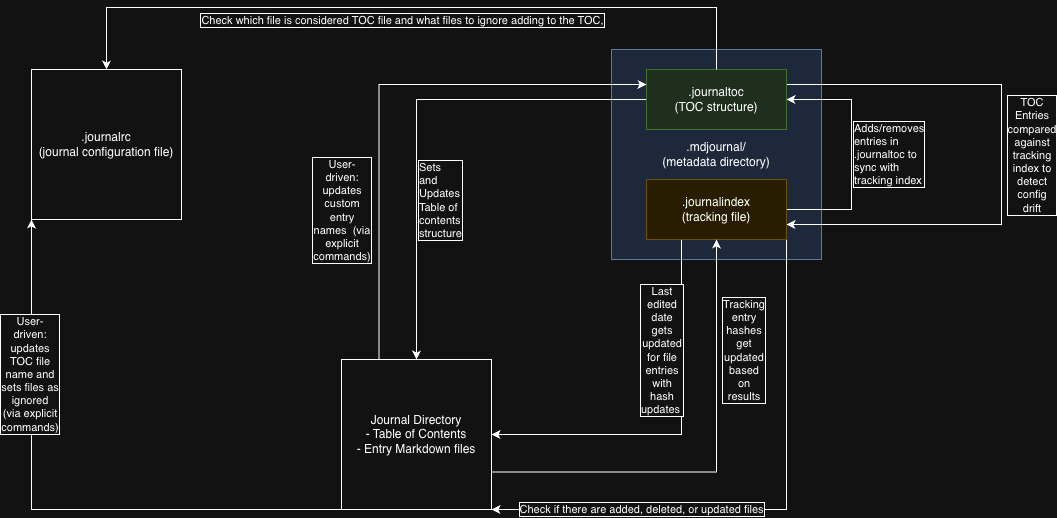
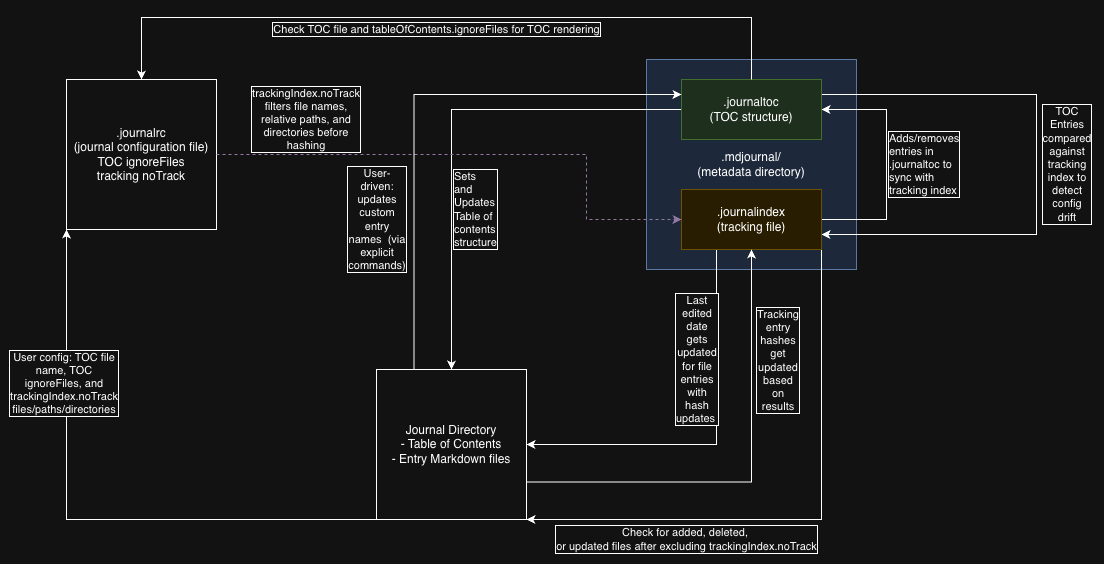
docs

diff --git a/docs/ARCHITECTURE.md b/docs/ARCHITECTURE.md
@@ -25,7 +25,7 @@ Three metadata artifacts (`.journalrc`, `.mdjournal/.journalindex`, and `.mdjour
 
 | Component | Role |
 |---|---|
-| `.journalrc` | Config file. Defines the TOC file name, file extensions, and the `ignoreFiles` list.|
+| `.journalrc` | Config file. Defines the journal name, TOC file name, markdown extensions, `tableOfContents.ignoreFiles`, and `trackingIndex.noTrack`. |
 | `.mdjournal/` | Hidden metadata directory. Contains `.journalindex` and `.journaltoc`. |
 | `.mdjournal/.journalindex` | Tracking file. Stores SHA256 hashes and last-checked timestamps for every tracked `.md` file. |
 | `.mdjournal/.journaltoc` | TOC structure file. Stores the topic hierarchy and root entries as JSON. |
@@ -33,14 +33,14 @@ Three metadata artifacts (`.journalrc`, `.mdjournal/.journalindex`, and `.mdjour
 
 **Sync loop (automatic on `update journal`):**
 
-1. **Disk → `.mdjournal/.journalindex`** — `FileTracking.DetectChangesWithoutUpdate()` walks the directory and compares file hashes against the stored index to identify added, modified, and deleted files.
+1. **Disk → `.mdjournal/.journalindex`** — `FileTracking.DetectChangesWithoutUpdate()` walks the directory, filters out `.mdjournal/`, applies `.journalrc` `trackingIndex.noTrack`, and compares file hashes against the stored index to identify added, modified, and deleted files.
 2. **`.mdjournal/.journalindex` → Journal Directory** — Last-edited metadata is stamped into modified entry files; `.mdjournal/.journalindex` is updated with the new hashes.
-3. **`.mdjournal/.journalindex` → `.mdjournal/.journaltoc`** — `JournalConfiguration.DetectConfigChanges()` diffs the tracking index keys against the combined entry set from `.mdjournal/.journaltoc` (root entries + topic hierarchy) and `.journalrc` (`ignoreFiles`) to find files that need to be added or removed. Structural adds and removes are written to `.mdjournal/.journaltoc` via `IJournalTocStructureRepository`. Config detection runs twice in the live path: once before the early-return check, and again after tracking is committed so that same-run file additions and deletions are captured.
+3. **`.mdjournal/.journalindex` → `.mdjournal/.journaltoc`** — `JournalConfiguration.DetectConfigChanges()` diffs the tracking index keys against the combined entry set from `.mdjournal/.journaltoc` (root entries + topic hierarchy) and `.journalrc` (`tableOfContents.ignoreFiles`) to find files that need to be added or removed. Files in `trackingIndex.noTrack` have already been excluded from the tracking index, so they do not participate in config drift detection. Structural adds and removes are written to `.mdjournal/.journaltoc` via `IJournalTocStructureRepository`. Config detection runs twice in the live path: once before the early-return check, and again after tracking is committed so that same-run file additions and deletions are captured.
 4. **`.journalrc` + `.mdjournal/.journaltoc` → Journal Directory** — `TableOfContentsService` reads user settings from `.journalrc` and the topic structure from `.mdjournal/.journaltoc`, then regenerates the Table of Contents markdown file.
 
 **User-driven (explicit commands only):**
 
-- **Journal Directory → `.journalrc`** — Ignore-file flags (`update entry --ignore`) are written to `.journalrc`'s `ignoreFiles` list via explicit commands.
+- **Journal Directory → `.journalrc`** — Ignore-file flags (`update entry --ignore`) are written to `.journalrc`'s `tableOfContents.ignoreFiles` list via explicit commands. `trackingIndex.noTrack` is user configuration that excludes files, relative paths, or directories from tracking entirely.
 - **Journal Directory → `.mdjournal/.journaltoc`** — Entry heading/location changes (`update entry --headings`), display name changes (`update entry --name`/`--title`), and file renames are written to `.mdjournal/.journaltoc` via `IJournalTocStructureRepository`.
 
 ## 🔧 Dependency Injection
@@ -90,6 +90,7 @@ The application follows a service-oriented architecture with clear separation of
 **`IJournalConfiguration`** — Manages all `.journalrc` CRUD operations.
 - Supports complex nested topic/subtopic hierarchy.
 - Provides entry find, rename, and file-reference update for rename workflows.
+- Preserves `trackingIndex.noTrack` when journal updates regenerate user-facing configuration.
 
 **`IJournalFileUpdateService`** — Orchestrates entry update operations.
 - Handles renaming, relocation, title changes, and ignore-status toggling.
@@ -173,19 +174,50 @@ Implemented in `TableOfContentsGenerator.cs` for smart TOC rendering.
 }
 ```
 
+### Tracking No-Track Pattern
+
+**Purpose:** Allow markdown files or directories to exist inside the journal directory without becoming part of the tracking index.
+
+This is different from `tableOfContents.ignoreFiles`: ignored files are still tracked and can remain in configuration, while no-track files are omitted before hashing and are not written to `.mdjournal/.journalindex`.
+
+**Implementation:**
+- `.journalrc` contains `trackingIndex.noTrack`.
+- `FileTracking.GetCurrentMarkdownFiles()` reads the journal configuration before change detection or index refresh.
+- Matches are filtered before hashes are computed, before added/modified/deleted results are calculated, and before a new index is saved.
+- Matching accepts:
+  - file-name-only entries, e.g. `scratch.md` matches `scratch.md` and `notes/scratch.md`
+  - exact relative paths, e.g. `private/secret.md`
+  - directory entries, e.g. `archive` or `archive/` excludes all markdown files under that directory
+- Matching is case-insensitive and normalizes `\` to `/`; glob patterns are not supported.
+
+**Use Cases:**
+- Private folders that should never be indexed
+- Imported archives kept near a journal but outside active tracking
+- Scratch files that should not create update noise
+- Generated markdown files managed by another tool
+
+**Example:**
+```json
+{
+  "trackingIndex": {
+    "noTrack": ["scratch.md", "private/secret.md", "archive"]
+  }
+}
+```
+
 ### File Change Detection
 
 **Architecture:**
 ```
 IFileTracking
     └── IHashService (SHA256)
-            └── .md-journal index file
+            └── .mdjournal/.journalindex file
 ```
 
 **Process:**
-1. **Index Creation**: Hash all markdown files on journal initialization
-2. **Storage**: Save index to `.md-journal` JSON file
-3. **Detection**: Compare current file hashes with stored hashes
+1. **Index Creation**: Hash all tracked markdown files on journal initialization
+2. **Storage**: Save index to `.mdjournal/.journalindex` JSON file
+3. **Detection**: Load `.journalrc`, exclude `trackingIndex.noTrack` matches, then compare current file hashes with stored hashes
 4. **Results**: Return added/modified/deleted file lists
 
 **Index Structure:**

diff --git a/README.md b/README.md
@@ -160,12 +160,35 @@ dotnet tool uninstall -g mdjournal
 
 Each journal has normal markdown files plus three managed metadata artifacts:
 
-- `.journalrc` for user-facing journal settings (name, TOC filename, ignore list)
+- `.journalrc` for user-facing journal settings (name, TOC filename, TOC ignore list, tracking no-track list)
 - `.mdjournal/.journalindex` for file-change tracking (hash-based)
 - `.mdjournal/.journaltoc` for TOC structure (topics + root entries)
 
 `mdjournal update ... journal` keeps them in sync by detecting file changes,
 updating tracking/config state, and regenerating the markdown TOC.
+
+### `.journalrc` ignore vs no-track
+
+`.journalrc` has two separate exclusion concepts:
+
+- `tableOfContents.ignoreFiles`: entries stay tracked, but are omitted from the generated TOC.
+- `trackingIndex.noTrack`: files are excluded from the tracking index entirely, so update/sync does not report, hash, or add them to `.mdjournal/.journalindex`.
+
+`trackingIndex.noTrack` accepts file names, relative file paths, or directories. Matching is case-insensitive and normalizes slashes; glob patterns are not currently supported.
+
+```json
+{
+  "journalName": "MyJournal",
+  "tableOfContents": {
+    "file": "1a-TableOfContents.md",
+    "extensions": [".md"],
+    "ignoreFiles": ["draft.md"]
+  },
+  "trackingIndex": {
+    "noTrack": ["scratch.md", "private/secret.md", "archive"]
+  }
+}
+```
 
 ## Documentation
 

diff --git a/docs/COMMANDS.md b/docs/COMMANDS.md
@@ -203,6 +203,8 @@ Options:
 Notes:
 
 - If tracking already exists, command exits `0` with warning and does not overwrite
+- The generated tracking index excludes markdown files matched by `.journalrc` `trackingIndex.noTrack`.
+- `trackingIndex.noTrack` can contain a specific file name (`scratch.md`), a relative file path (`private/secret.md`), or a directory (`archive` or `archive/`).
 
 Examples:
 
@@ -241,6 +243,20 @@ Behavior:
 - `--sync` is mutually exclusive with `--date`, `--tracking`, `--config`, and `--toc`
 - `--rename-toc` runs independently and can be combined with other operations
 - `--dry-run` always exits `0`
+- Tracking and sync operations respect `.journalrc` `trackingIndex.noTrack`: matching files are skipped before hash comparison and are not saved in `.mdjournal/.journalindex`.
+- `tableOfContents.ignoreFiles` only hides entries from the generated TOC; `trackingIndex.noTrack` excludes files from tracking entirely.
+
+No-track examples in `.journalrc`:
+
+```json
+{
+  "trackingIndex": {
+    "noTrack": ["scratch.md", "private/secret.md", "archive"]
+  }
+}
+```
+
+Matching is case-insensitive, normalizes slashes, and does not currently support glob patterns.
 
 Examples:
 

diff --git a/docs/DEVELOPMENT.md b/docs/DEVELOPMENT.md
@@ -194,6 +194,8 @@ Internal metadata is rooted in `.mdjournal/`:
 - `.mdjournal/.journalindex`
 - `.mdjournal/.journaltoc`
 
+Root-level `.journalrc` remains the user-facing configuration file. It includes both TOC exclusions (`tableOfContents.ignoreFiles`) and tracking exclusions (`trackingIndex.noTrack`). When touching file tracking, make sure no-track filtering happens before hashing or saving `.journalindex`; when touching TOC generation, use `ignoreFiles` instead.
+
 Services should resolve these via configured names in `JournalSettings`, not hardcoded strings.
 
 Commands that target existing journals should rely on `JournalCommand<T>` metadata validation

diff --git a/docs/TESTING.md b/docs/TESTING.md
@@ -184,6 +184,7 @@ For new behavior, include:
 - validation/guard failure tests
 - exceptional/error handling tests
 - rollback tests for write-path failures (when applicable)
+- file tracking no-track tests when `.journalrc` `trackingIndex.noTrack` behavior changes, including specific file-name matches, relative path matches, and directory matches
 
 ## Testing Checklist for PRs
 